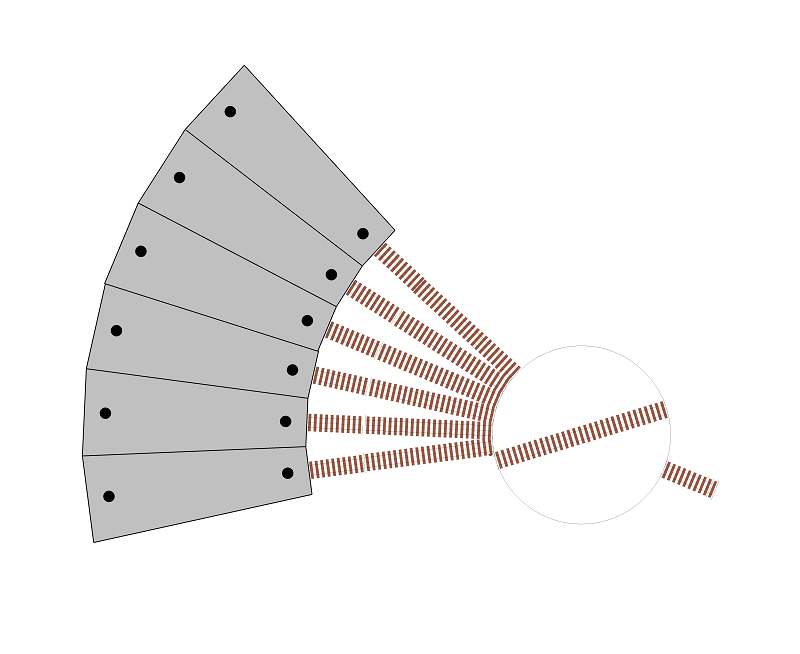
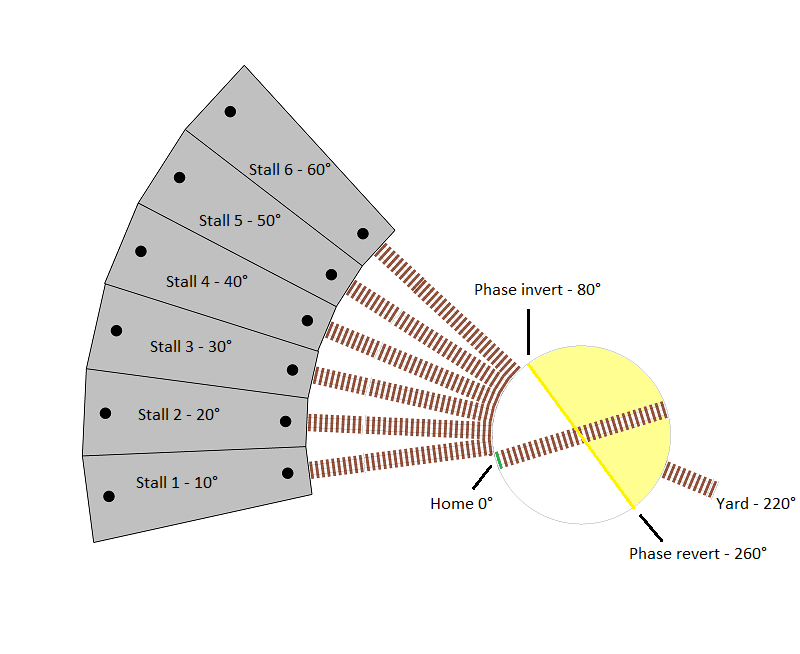
Finished turntable diagrams

diff --git a/docs/big-picture/stage5.rst b/docs/big-picture/stage5.rst
@@ -46,6 +46,10 @@ At the end of this stage, we expect you will have learnt the following:
 Add an EX-Turntable to your EX-CommandStation
 =============================================
 
+.. note:: 
+
+  All configuration items have been updated in line with |EX-TT| release 0.5.0-Beta and the associated updates to the "add-turntable-controller" branch of |EX-CS| which has the device driver and all entities renamed from "Turntable-EX" to the newly branded "EX-Turntable". If you have an earlier version of either |EX-CS| or |EX-TT|, these examples will differ in this regard.
+
 To add our turntable and traverser to the |EX-CS|, we need to ensure |EX-TT| is configured correctly for both items, and then add the device drivers with the correct configuration to our |EX-CS|.
 
 Adding the turntable
@@ -253,25 +257,45 @@ We will refer to our turntable positions from number 1 through to 7 moving in a 
 
 The home position has been set 10 degrees before position 1/roundhouse stall 1.
 
+As you can see by the diagram, we have identified the positions (in degrees) from the home position. The DCC phase inversion/reversal is also highlighted for reference when this is discussed a little further down the page.
+
+.. image:: ../_static/images/big-picture/stage5-ex-tt-positions.png
+  :alt: Turntable Positions
+  :scale: 80%
+
 Track wiring
 ^^^^^^^^^^^^
 
-.. todo:: `MEDIUM - Stage 5 <https://github.com/DCC-EX/dcc-ex.github.io/issues/414>`_ - track wiring diagram
-
-In this layout, positions 1 through 6 are all somewhat opposite our connecting track at position 7, and therefore the simplest option for track wiring is to ensure they are all wired with the same polarity (this will be outlined in a diagram).
+In this layout, positions 1 through 6 are all somewhat opposite our connecting track at position 7, and therefore the simplest option for track wiring is to ensure they are all wired with the same polarity.
 
 This means when the home sensor end of our turntable bridge is aligned with any of the roundhouse stall positions, we don't need to reverse the DCC phase/polarity.
 
-However, when the opposite end of the bridge aligns with any of these positions, the DCC phase/polarity must be reversed.
+However, when the bridge is rotated 180 degrees, the DCC phase/polarity must be reversed.
+
+We will assume we are using a slip ring for this turntable's physical connection to the bridge track, and therefore we need to ensure that EX-Turntable's dual relay board is switched via the automatic phase switching capability.
+
+You will note in the diagram that the motor shield's positive (+) output is connected to the bottom rail of the yard track and each stall's track, along with the normally closed (NC) terminal of relay 1, and the normally open (NC) of relay 2.
+
+The motor shield's negative (-) output is connected to the top rail of each track, and the normally open (NO) terminal of relay 1, and normally closed (NC) of relay 2.
+
+.. image:: ../_static/images/big-picture/stage5-ex-tt-wiring.png
+  :alt: Turntable Wiring
+  :scale: 60%
+
+In the scenario that the DCC phase is to be maintained (both relays turned off), this means the bridge track is kept aligned with the surrounding tracks, as relay 1 connects the brown wire to the positive (+) blue wire, and orange wire to the negative (-) green wire, so the bottom bridge rail is connected to the surrounding track's bottom rails, and likewise the top bridge rail to the surrounding track's top rails.
+
+When the relays turn on, these are reversed, resulting in the brown wire connecting to the negative (-) green wire, and orange wire connecting to the positive (+) blue wire.
 
 DCC phase/polarity switching angle calculation
 ^^^^^^^^^^^^^^^^^^^^^^^^^^^^^^^^^^^^^^^^^^^^^^
 
 Given our track wiring in combination with the home and roundhouse stall positions, we now know that between 0 (home) and 60 degrees (roundhouse stall 6), we need the DCC phase to be maintained in line with our track wiring, with phase switching occurring at some point after this, before reaching our connection track at position 7.
 
-Therefore, we will set our phase switching angle to 65 degrees, resulting in the phase automatically reverting at 245 degrees.
+Therefore, we will set our phase switching angle to 80 degrees, resulting in the phase automatically reverting at 260 degrees.
 
-The means, for our turntable |EX-TT|, we will need to update "config.h" and repeat :ref:`ex-turntable/assembly:7. load the ex-turntable software`.
+This is highlighted in the diagram above, with the yellow line indicating when the phase will switch and revert, and the yellow shaded area representing the 180 degrees in which the phase will be inverted.
+
+This means, for our turntable |EX-TT|, we will need to update "config.h" and repeat :ref:`ex-turntable/assembly:7. load the ex-turntable software`.
 
 Expand "config.h" to see the updated |EX-TT| configuration file for the turntable, noting we have removed all comments for brevity.
 
@@ -285,7 +309,7 @@ Expand "config.h" to see the updated |EX-TT| configuration file for the turntabl
     #define LIMIT_SENSOR_ACTIVE_STATE LOW
     #define RELAY_ACTIVE_STATE HIGH
     #define PHASE_SWITCHING AUTO
-    #define PHASE_SWITCH_ANGLE 65
+    #define PHASE_SWITCH_ANGLE 80
     #define STEPPER_DRIVER ULN2003_HALF_CW
     #define DISABLE_OUTPUTS_IDLE
     #define STEPPER_MAX_SPEED 200     // Maximum possible speed the stepper will reach
@@ -300,7 +324,7 @@ Turntable position calculation
 
 Since we know the angles of our positions as outlined when considering our DCC phase switching, we can now calculate the step counts required for the turntable bridge to align with these positions. We will use the formula outlined in :ref:`ex-turntable/test-and-tune:determine the positions` to calculate these step counts (full rotation step count / 360 degrees * position in degrees).
 
-Using this formular results in these step counts (noting we round up or down to the nearest full number):
+Using this formula results in these step counts (noting we round up or down to the nearest full number):
 
 .. list-table::
     :widths: auto
